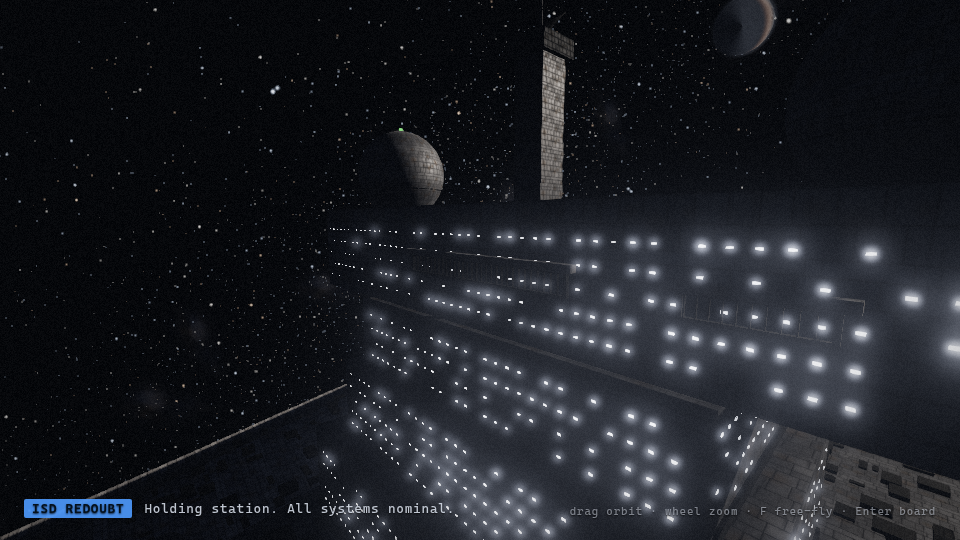
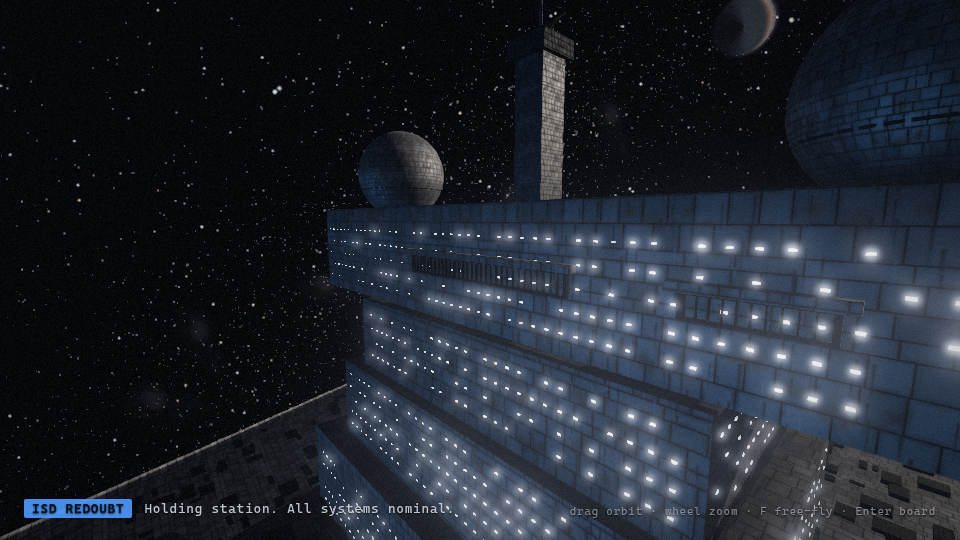
Exterior peek: glazed tower rooms render from outside; animators run in exterior mode; hull env intensity

diff --git a/src/core/room.js b/src/core/room.js
@@ -218,6 +218,7 @@ export class RoomManager {
     this.rooms = new Map(); // id -> { def, ctx, built, visible }
     for (const def of ROOMS) this.rooms.set(def.id, { def, ctx: null, built: false, visible: false, cluster: def.cluster });
     this.current = null;
+    this.peek = false; // exterior mode: show the glazed tower rooms so the bridge is lit behind its windows
     this.visibleIds = new Set();
     this.activeColliders = [];
     this.builtClusters = new Set();
@@ -331,8 +332,14 @@ export class RoomManager {
     this.interactablesVersion++;
     this.doorSystem.roomBuilt(id);
     for (const e of this.extras) if (e.roomBuilt) e.roomBuilt(id);
-    if (this.current && this.current.id === id) this.refreshVisibility(true);
+    if ((this.current && this.current.id === id) || this.peek) this.refreshVisibility(true);
     return r;
+  }
+
+  /** Exterior peek: render only the rooms that have windows (they are visible from outside). */
+  setExteriorPeek(on) {
+    this.peek = on;
+    this.refreshVisibility(true);
   }
 
   releaseCluster(cluster) {
@@ -402,6 +409,11 @@ export class RoomManager {
     } else if (this.doorSystem.dirty) {
       this.refreshVisibility();
     }
+    this.updateAnimators(dt, t);
+  }
+
+  /** Run the per-frame animators of every visible room (screens, machinery, holograms). */
+  updateAnimators(dt, t) {
     for (const id of this.visibleIds) {
       const r = this.rooms.get(id);
       if (!r.built) continue;
@@ -413,7 +425,9 @@ export class RoomManager {
   refreshVisibility(force = false) {
     this.doorSystem.dirty = false;
     const vis = new Set();
-    if (this.current) {
+    if (this.peek) {
+      for (const [id, r] of this.rooms) if (r.built && r.def.windows) vis.add(id);
+    } else if (this.current) {
       vis.add(this.current.id);
       for (const d of this.doorsOf(this.current.id)) {
         if (!d.other) continue;

diff --git a/src/systems/transitions.js b/src/systems/transitions.js
@@ -35,6 +35,7 @@ export class Modes {
       this.camera.far = 6000;
       this.scene.fog = this.fogInterior;
       this.rooms.group.visible = true;
+      this.rooms.setExteriorPeek(false);
       this.hud.setModeHint("V exterior view · E interact · Shift sprint · Esc release");
     } else {
       this.player.enabled = false;
@@ -43,7 +44,10 @@ export class Modes {
       this.camera.near = 1;
       this.camera.far = 40000;
       this.scene.fog = null;
-      this.rooms.group.visible = false;
+      // keep the glazed tower rooms rendering so the bridge glows behind its windows from outside
+      this.rooms.group.visible = true;
+      this.rooms.prefetch("tower");
+      this.rooms.setExteriorPeek(true);
       this.hud.setModeHint("drag orbit · wheel zoom · F free-fly · Enter board");
     }
     this.camera.updateProjectionMatrix();

diff --git a/src/main.js b/src/main.js
@@ -95,7 +95,7 @@ scene.environmentIntensity = 0.25;
   const spaceEnv = pmrem.fromCubemap(cubeRT.texture).texture;
   for (const k of ["hull", "hullDark"]) {
     materials[k].envMap = spaceEnv;
-    materials[k].envMapIntensity = 0.6;
+    materials[k].envMapIntensity = 0.35;
     materials[k].needsUpdate = true;
   }
   cubeRT.dispose();
@@ -546,6 +546,8 @@ function frame() {
     lifts.update(dt, player.position);
     audio.listener = player.position;
     if (envFrames++ % 240 === 5) captureEnvironment();
+  } else {
+    rooms.updateAnimators(dt, t);
   }
   space.update(dt);
   space.root.position.copy(camera.position);
